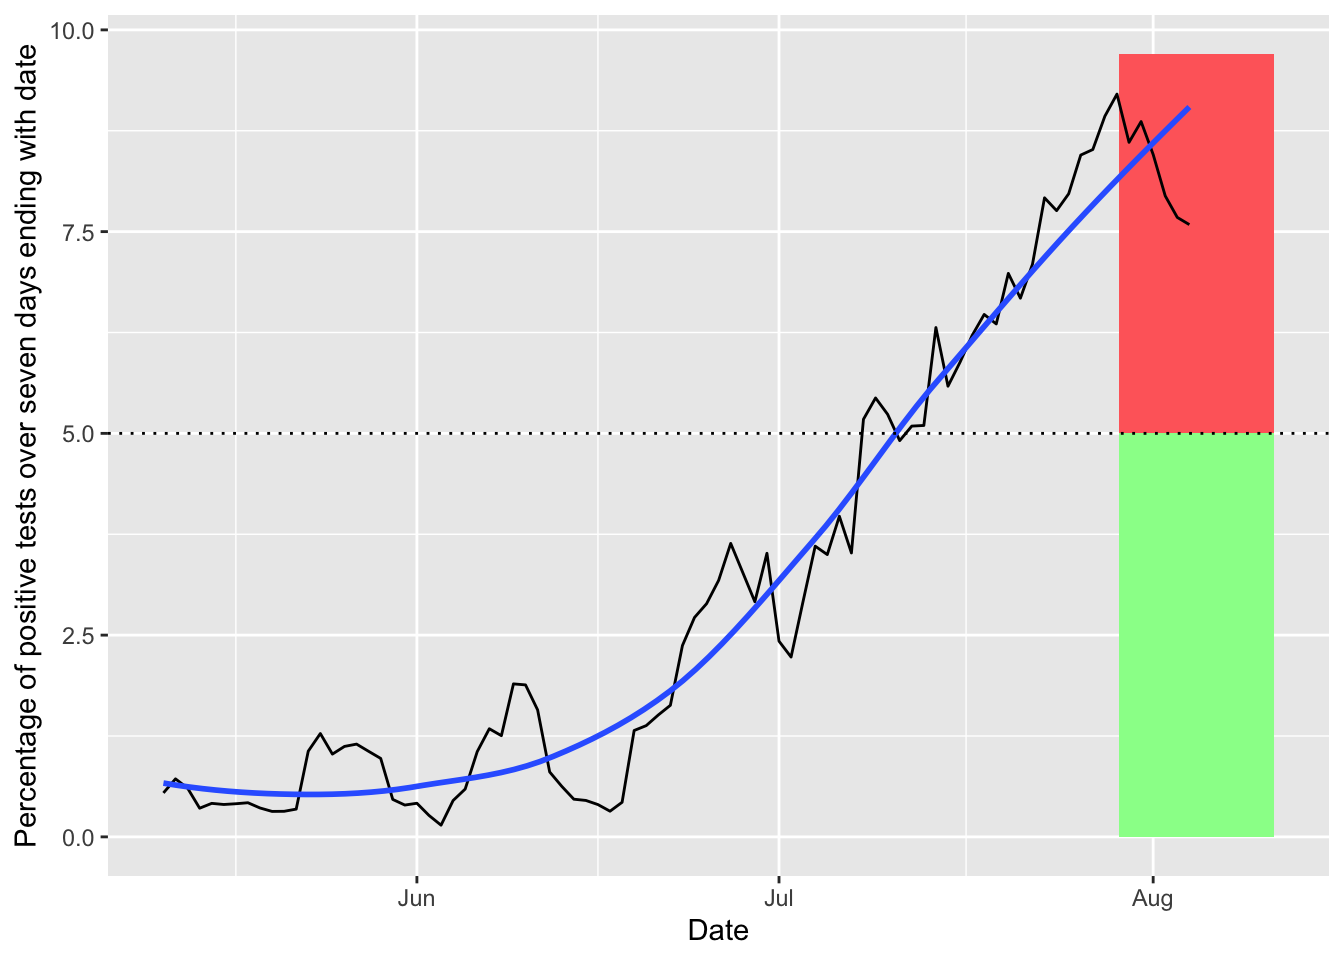
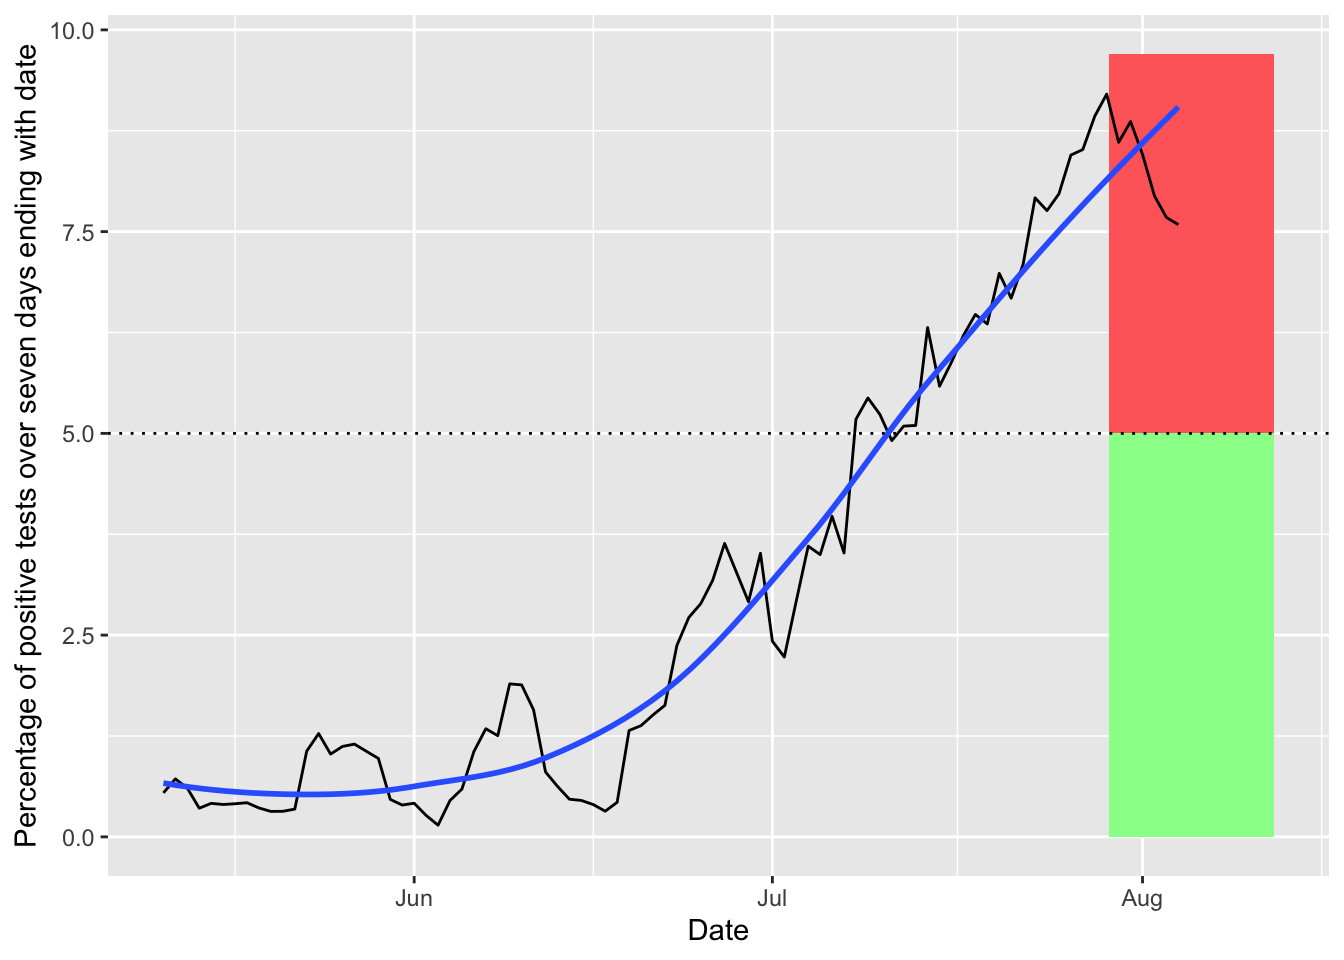
updating site

diff --git a/docs/covid.html b/docs/covid.html
@@ -423,7 +423,7 @@ $(document).ready(function () {
 <li>Info about cases at <a href="#ut">U. of Tennessee, Knoxville</a> (using public information only)</li>
 <li><a href="#webcams">Webcams</a> showing activity at local sites, though not quite at the resolution to point to mask usage or not</li>
 </ul>
-<p>The following plots are created in R using data from <a href="https://covid19datahub.io" class="uri">https://covid19datahub.io</a> (Guidotti, E., Ardia, D., (2020), “COVID-19 Data Hub”, Working paper, doi: 10.13140/RG.2.2.11649.81763), as well as information from Google and the <a href="https://www.tn.gov/health/cedep/ncov/data/downloadable-datasets.html">state of Tennessee dataset page</a> and plotting and analysis using the <code>forecast</code>, <code>ggplot2</code>, <code>reshape2</code>, and <code>dplyr</code> packages. Plots created on 2020-08-04 22:34:39. I use <code>ggplot2</code>’s <code>geom_smooth()</code> function for the smoothed regression plots with its default formula, which uses loess smoothing for this many points. This is not based on a model of disease spread or anything similarly sophisticated, just drawing a smooth curve to summarize noisy points (see <a href="https://www.itl.nist.gov/div898/handbook/pmd/section1/pmd144.htm">here</a> for more details).</p>
+<p>The following plots are created in R using data from <a href="https://covid19datahub.io" class="uri">https://covid19datahub.io</a> (Guidotti, E., Ardia, D., (2020), “COVID-19 Data Hub”, Working paper, doi: 10.13140/RG.2.2.11649.81763), as well as information from Google and the <a href="https://www.tn.gov/health/cedep/ncov/data/downloadable-datasets.html">state of Tennessee dataset page</a> and plotting and analysis using the <code>forecast</code>, <code>ggplot2</code>, <code>reshape2</code>, and <code>dplyr</code> packages. Plots created on 2020-08-05 08:38:14. I use <code>ggplot2</code>’s <code>geom_smooth()</code> function for the smoothed regression plots with its default formula, which uses loess smoothing for this many points. This is not based on a model of disease spread or anything similarly sophisticated, just drawing a smooth curve to summarize noisy points (see <a href="https://www.itl.nist.gov/div898/handbook/pmd/section1/pmd144.htm">here</a> for more details).</p>
 <h2 id="cases">
 Cases
 </h2>
@@ -461,7 +461,7 @@ Schooling
 <h2 id="hospitalization">
 Hospitalization
 </h2>
-<p>As of the last time the data were updated (likely 6 days ago), regional hospitals had 57 ICU beds available of 272 total, and 157 available ventilators out of 250 total. This is based on 19 acute care hospitals in the East TN region; based on the 14 counties these hospitals are in, these serve at least 1,235,720 people. When a line hits 100%, the local hospitals are theoretically full for that resource (for all patients, not just covid patients), though there is surge capacity on top of this. Note that these data are updated only weekly, so current conditions maybe be much better or worse than these plots show. Data on capacity from Knox County’s dashboard, data on hospitalizations and testing over time from the state data.</p>
+<p>As of the last time the data were updated (likely 7 days ago), regional hospitals had 57 ICU beds available of 272 total, and 157 available ventilators out of 250 total. This is based on 19 acute care hospitals in the East TN region; based on the 14 counties these hospitals are in, these serve at least 1,235,720 people. When a line hits 100%, the local hospitals are theoretically full for that resource (for all patients, not just covid patients), though there is surge capacity on top of this. Note that these data are updated only weekly, so current conditions maybe be much better or worse than these plots show. Data on capacity from Knox County’s dashboard, data on hospitalizations and testing over time from the state data.</p>
 <p><img src="covid_files/figure-html/hospitalcapacityplot-1.png" width="672" /></p>
 <p>Trends in hospitalization of covid patients over time. The vertical dotted line shows the last day with updated capacity information, when there were 57 ICU beds available (ignoring surge capacity) for people in the East Tennessee region.</p>
 <p><img src="covid_files/figure-html/plotsD-1.png" width="672" /></p>
